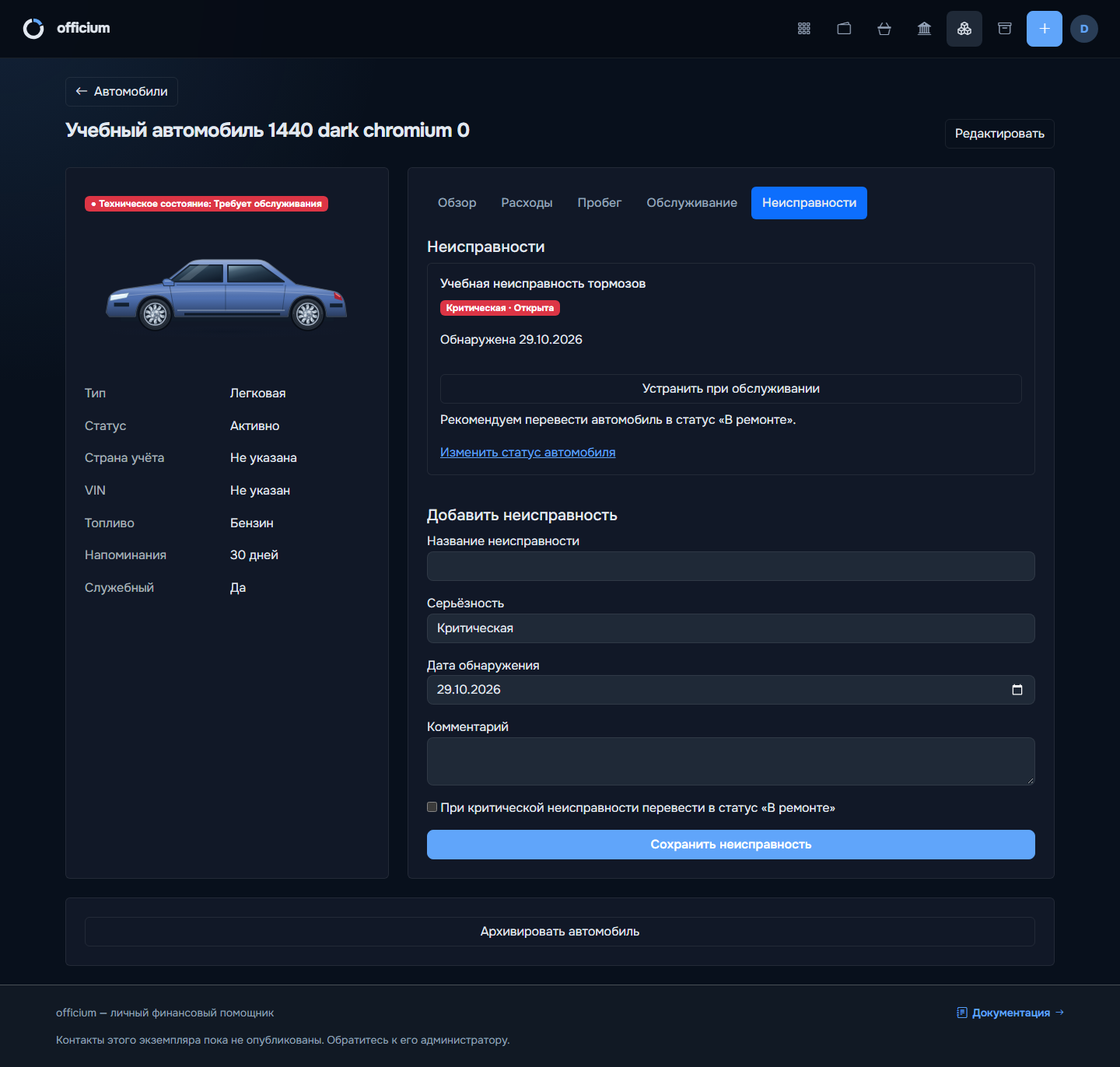
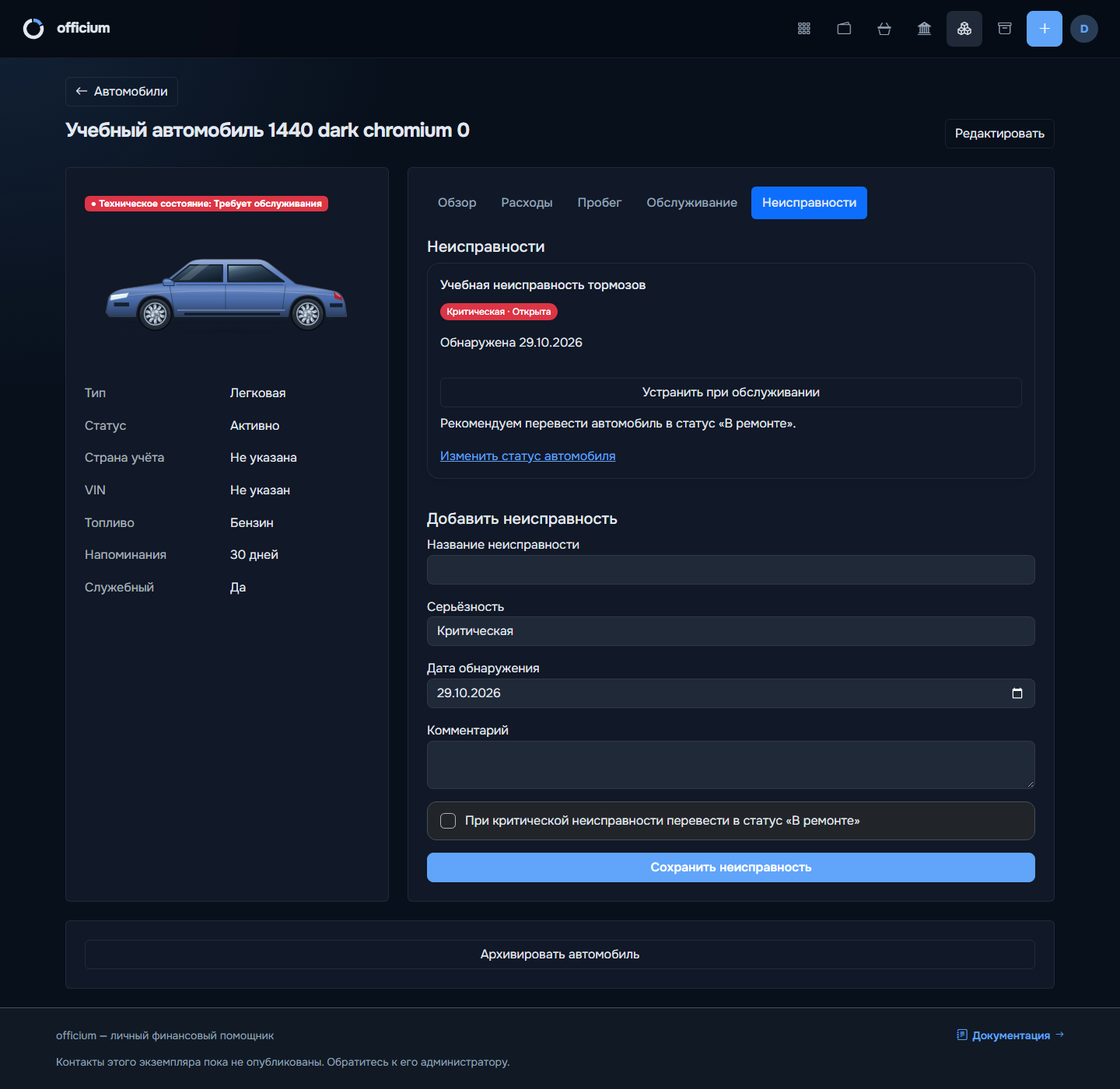
style(vehicles): polish maintenance forms and disclosures

diff --git a/templates/vehicles/_maintenance.html b/templates/vehicles/_maintenance.html
@@ -1,28 +1,28 @@
 <h2 class="h5">Обслуживание</h2>
 <p class="text-muted">Интервалы типовые, сверяйтесь с регламентом производителя.</p>
 {% if not vehicle.archived_at %}<a class="btn btn-primary mb-3" href="{{ url_for('vehicle_record_service',vehicle_id=vehicle.id) }}">Записать обслуживание</a>{% endif %}
-{% for item,state in maintenance_items %}<article class="card p-3 mb-3 text-break">
+{% for item,state in maintenance_items %}<article class="card vehicle-maintenance-card p-3 mb-3 text-break">
 <h3 class="h6">{{ item.name }} {% if not item.is_active %}(отключено){% endif %}</h3>
 <p><span class="badge text-bg-{{ state.color }}">{{ state.label }}</span></p>
 <p>Заменить {% if state.due_km is not none %}на {{ '{:,}'.format(state.due_km).replace(',', ' ') }} км{% endif %}{% if state.due_km is not none and state.due_date %} или {% endif %}{% if state.due_date %}до {{ state.due_date.strftime('%d.%m.%Y') }}{% endif %}{% if state.due_km is none and not state.due_date %}— укажите последнюю замену{% endif %}</p>
 {% if forecasts[item.id] %}<p class="text-muted">По пробегу: {{ forecasts[item.id].strftime('%d.%m.%Y') }} (оценка)</p>{% endif %}
-{% if not vehicle.archived_at %}<details><summary>Настроить позицию</summary><form class="d-grid gap-2 mt-2" method="post" action="{{ url_for('vehicle_maintenance_edit',vehicle_id=vehicle.id,item_id=item.id) }}">
+{% if not vehicle.archived_at %}<details class="vehicle-disclosure"><summary><span>Настроить позицию</span><i class="bi bi-chevron-down" aria-hidden="true"></i></summary><form class="vehicle-maintenance-fields mt-3" method="post" action="{{ url_for('vehicle_maintenance_edit',vehicle_id=vehicle.id,item_id=item.id) }}">
 <input type="hidden" name="csrf_token" value="{{ csrf_token() }}">
 <label>Название<input class="form-control" name="name" value="{{ item.name }}" maxlength="150" required></label>
 {% if vehicle.kind!='trailer' %}<label>Интервал, км<input class="form-control" name="interval_km" type="number" min="1" value="{{ item.interval_km or '' }}"></label>{% endif %}
 <label>Интервал, месяцев<input class="form-control" name="interval_months" type="number" min="1" max="1200" value="{{ item.interval_months or '' }}"></label>
 <label>Последняя замена<input class="form-control" name="last_done_date" type="date" max="{{ today }}" value="{{ item.last_done_date or '' }}"></label>
 {% if vehicle.kind!='trailer' %}<label>Пробег при замене<input class="form-control" name="last_done_km" type="number" min="0" value="{{ item.last_done_km if item.last_done_km is not none else '' }}"></label>{% endif %}
-<label><input type="checkbox" name="is_active" value="1" {% if item.is_active %}checked{% endif %}> Активна</label><input type="hidden" name="is_active" value="0"><button class="btn btn-outline-primary">Сохранить позицию</button></form></details>{% endif %}
+<label class="vehicle-choice"><input type="checkbox" name="is_active" value="1" {% if item.is_active %}checked{% endif %}> Активна</label><input type="hidden" name="is_active" value="0"><button class="btn btn-outline-primary">Сохранить позицию</button></form></details>{% endif %}
 </article>{% else %}<p>Позиций пока нет. Добавьте их из шаблона или задайте свой интервал.</p>{% endfor %}
 {% if not vehicle.archived_at %}
-<details class="mb-3"><summary>Добавить из шаблона</summary><form class="d-grid gap-3 mt-3" method="post" action="{{ url_for('vehicle_maintenance',vehicle_id=vehicle.id) }}">
+<details class="vehicle-disclosure vehicle-disclosure-add mb-3"><summary><span>Добавить из шаблона</span><i class="bi bi-chevron-down" aria-hidden="true"></i></summary><form class="vehicle-maintenance-fields mt-3" method="post" action="{{ url_for('vehicle_maintenance',vehicle_id=vehicle.id) }}">
 <input type="hidden" name="csrf_token" value="{{ csrf_token() }}"><label>Шаблон<select class="form-select" name="template_id" required>{% for template in maintenance_templates %}<option value="{{ template.id }}">{{ template.name }}</option>{% endfor %}</select></label>
 <label>Последняя замена<input class="form-control" name="last_done_date" type="date" max="{{ today }}"></label>
 {% if vehicle.kind!='trailer' %}<label>Пробег при замене<input class="form-control" name="last_done_km" type="number" min="0"></label>{% endif %}<button class="btn btn-outline-primary">Добавить позицию</button></form></details>
-<details><summary>Добавить свою позицию</summary><form class="d-grid gap-3 mt-3" method="post" action="{{ url_for('vehicle_maintenance',vehicle_id=vehicle.id) }}">
+<details class="vehicle-disclosure"><summary><span>Добавить свою позицию</span><i class="bi bi-chevron-down" aria-hidden="true"></i></summary><form class="vehicle-maintenance-fields mt-3" method="post" action="{{ url_for('vehicle_maintenance',vehicle_id=vehicle.id) }}">
 <input type="hidden" name="csrf_token" value="{{ csrf_token() }}"><label>Название<input class="form-control" name="name" maxlength="150" required></label>
 {% if vehicle.kind!='trailer' %}<label>Интервал, км<input class="form-control" type="number" min="1" name="interval_km"></label>{% endif %}<label>Интервал, месяцев<input class="form-control" type="number" min="1" max="1200" name="interval_months"></label><button class="btn btn-outline-primary">Добавить позицию</button></form></details>
 {% endif %}
 <h3 class="h5 mt-4">История обслуживания</h3>
-{% for record in vehicle.service_records|sort(attribute='service_date',reverse=true) %}<article class="border rounded p-3 mb-2 text-break"><strong>{{ record.service_date.strftime('%d.%m.%Y') }}</strong>{% if record.odometer_km is not none %} · {{ record.odometer_km }} км{% endif %}<ul>{% for item in record.items %}<li>{{ item.name }}</li>{% endfor %}</ul><p>{{ record.comment or '' }}</p>{% if record.expense_id %}<a href="{{ url_for('edit_expense',expense_id=record.expense_id) }}">Расход на обслуживание</a>{% elif record.vehicle_cost_id %}<a href="{{ url_for('vehicle_cost_detail',cost_id=record.vehicle_cost_id) }}">Трата организации</a>{% endif %}</article>{% else %}<p class="text-muted">Обслуживаний пока нет.</p>{% endfor %}
+{% for record in vehicle.service_records|sort(attribute='service_date',reverse=true) %}<article class="vehicle-service-entry p-3 mb-2 text-break"><strong>{{ record.service_date.strftime('%d.%m.%Y') }}</strong>{% if record.odometer_km is not none %} · {{ record.odometer_km }} км{% endif %}<ul>{% for item in record.items %}<li>{{ item.name }}</li>{% endfor %}</ul><p>{{ record.comment or '' }}</p>{% if record.expense_id %}<a href="{{ url_for('edit_expense',expense_id=record.expense_id) }}">Расход на обслуживание</a>{% elif record.vehicle_cost_id %}<a href="{{ url_for('vehicle_cost_detail',cost_id=record.vehicle_cost_id) }}">Трата организации</a>{% endif %}</article>{% else %}<p class="text-muted">Обслуживаний пока нет.</p>{% endfor %}

diff --git a/static/css/vehicles.css b/static/css/vehicles.css
@@ -3,6 +3,40 @@
 .vehicle-form-preview{grid-column:1/-1;text-align:center;overflow:hidden;border:1px solid var(--bs-border-color);border-radius:.75rem;background:var(--bs-tertiary-bg)}.vehicle-preview-scene{height:180px;display:grid;place-items:center;overflow:hidden;background-color:#314639;background-image:linear-gradient(180deg,#08111b08,#08111b26),url('../images/vehicles/backgrounds/forest-road.webp');background-size:cover;background-position:center 68%}.vehicle-form-preview .vehicle-visual{position:relative;top:12px;width:88%;max-width:360px;height:180px;max-height:180px;margin-inline:auto;filter:drop-shadow(0 3px 3px #0003)}.vehicle-preview-controls{padding:.75rem;border-top:1px solid var(--bs-border-color)}
 .vehicle-color-picker{max-width:340px;margin-inline:auto}.vehicle-color-toggle{display:inline-flex;align-items:center;gap:.5rem;list-style:none;cursor:pointer}.vehicle-color-toggle::-webkit-details-marker{display:none}.vehicle-color-current{width:1rem;height:1rem;border:1px solid var(--bs-secondary-color);border-radius:50%;background:var(--vehicle-color)}.vehicle-color-panel{margin-top:.75rem;padding:.75rem;border:1px solid var(--bs-border-color);border-radius:.75rem;background:var(--bs-body-bg)}.vehicle-color-swatches{display:grid;grid-template-columns:repeat(6,minmax(0,1fr));gap:.5rem}.vehicle-color-swatch{display:flex;align-items:center;justify-content:center;min-width:0;height:32px;background:var(--swatch-color);border:1px solid var(--bs-secondary-color);border-radius:.5rem;cursor:pointer}.vehicle-color-swatch i{visibility:hidden;color:#fff;filter:drop-shadow(0 1px 1px #000) drop-shadow(0 -1px 1px #000)}.vehicle-color-swatch[aria-pressed="true"]{outline:2px solid var(--bs-primary);outline-offset:2px}.vehicle-color-swatch[aria-pressed="true"] i{visibility:visible}.vehicle-color-swatch:focus-visible,.vehicle-color-toggle:focus-visible{outline:3px solid var(--bs-primary);outline-offset:3px}.vehicle-color-custom{display:flex;flex-wrap:wrap;align-items:center;justify-content:center;gap:.5rem;margin-top:.75rem}.vehicle-color-custom-label{display:flex;align-items:center;gap:.5rem;cursor:pointer}.vehicle-color-custom-label input{width:2.5rem;height:2rem;padding:.2rem}.vehicle-eyedropper{display:inline-flex;gap:.4rem}.vehicle-eyedropper[hidden]{display:none}.vehicle-color-status:empty{display:none}.vehicle-color-status{font-size:.85rem;margin-top:.5rem}
 .vehicle-image-link{display:block;text-decoration:none;cursor:pointer}.vehicle-image-link:focus-visible{outline:2px solid var(--bs-primary);outline-offset:3px}
+.vehicle-disclosure{border:1px solid var(--bs-border-color);border-radius:.9rem;background:var(--bs-body-bg);overflow:hidden}
+.vehicle-disclosure>summary{display:flex;align-items:center;justify-content:space-between;gap:1rem;min-height:48px;padding:.8rem 1rem;list-style:none;cursor:pointer;font-weight:500;overflow-wrap:anywhere}
+.vehicle-disclosure>summary::-webkit-details-marker{display:none}
+.vehicle-disclosure>summary::marker{content:""}
+.vehicle-disclosure>summary>i{flex:none;color:var(--bs-secondary-color);font-size:.85rem;transition:transform .18s ease}
+.vehicle-disclosure[open]>summary{border-bottom:1px solid var(--bs-border-color);background:var(--bs-tertiary-bg)}
+.vehicle-disclosure[open]>summary>i{transform:rotate(180deg)}
+.vehicle-disclosure>summary:hover{background:var(--bs-tertiary-bg)}
+.vehicle-disclosure>summary:focus-visible{outline:3px solid var(--bs-primary);outline-offset:-3px;border-radius:.8rem}
+.vehicle-disclosure>form{padding:0 1rem 1rem}
+.vehicle-disclosure-add{margin-top:.75rem}
+.vehicle-disclosure-add>summary{color:var(--bs-body-color)}
+.vehicle-maintenance-card{border-radius:1rem;box-shadow:0 3px 14px #00000006}
+.vehicle-maintenance-card h3{font-size:1rem;line-height:1.5}
+.vehicle-maintenance-card .badge{font-weight:500;padding:.45em .7em;border-radius:2rem}
+.vehicle-maintenance-fields{display:grid;grid-template-columns:repeat(2,minmax(0,1fr));gap:1rem}
+.vehicle-maintenance-fields>label:first-of-type,.vehicle-maintenance-fields>.vehicle-choice,.vehicle-maintenance-fields>button{grid-column:1/-1}
+.vehicle-maintenance-fields>label,.vehicle-service-form>label{min-width:0;display:grid;gap:.4rem}
+.vehicle-maintenance-fields>.vehicle-choice{display:flex}
+.vehicle-choice{display:flex;align-items:center;gap:.75rem;min-height:48px;padding:.75rem 1rem;border:1px solid var(--bs-border-color);border-radius:.75rem;background:var(--bs-body-bg);cursor:pointer;line-height:1.5}
+.vehicle-choice input[type=checkbox]{appearance:none;-webkit-appearance:none;flex:none;width:1.25rem;height:1.25rem;border:1.5px solid var(--bs-secondary-color);border-radius:.35rem;background:var(--bs-body-bg);cursor:pointer;display:grid;place-content:center}
+.vehicle-choice input[type=checkbox]:checked{background:var(--bs-primary);border-color:var(--bs-primary)}
+.vehicle-choice input[type=checkbox]:checked::after{content:"";width:.35rem;height:.65rem;border:solid white;border-width:0 2px 2px 0;transform:rotate(45deg) translate(-1px,-1px)}
+.vehicle-choice:has(input:checked){border-color:var(--bs-primary);background:var(--bs-primary-bg-subtle)}
+.vehicle-choice input:focus-visible{outline:3px solid var(--bs-primary);outline-offset:3px}
+.vehicle-service-section{padding:1rem;border:0;border-radius:1rem;min-width:0;background:var(--bs-tertiary-bg)}
+.vehicle-service-section legend{float:left;width:100%;padding:0;margin-bottom:.75rem;font-size:1rem;font-weight:500}
+.vehicle-service-section legend+*{clear:both}
+.vehicle-service-section p:last-child{margin-bottom:0}
+.vehicle-service-entry{border-left:3px solid var(--bs-border-color);background:var(--bs-tertiary-bg);border-radius:0 .75rem .75rem 0}
+.vehicle-service-entry ul{padding-left:1.2rem;margin-top:.75rem}
+.vehicle-template-interval{display:block;color:var(--bs-secondary-color);font-size:.85rem;font-weight:400;margin-top:.25rem}
+@media(max-width:575px){.vehicle-maintenance-fields{grid-template-columns:minmax(0,1fr)}.vehicle-service-section{padding:.75rem}.vehicle-disclosure>summary{padding:.75rem}.vehicle-disclosure>form{padding:0 .75rem .75rem}}
+@media(prefers-reduced-motion:reduce){.vehicle-disclosure>summary>i{transition:none}}
 .vehicle-form-wide{grid-column:1/-1}
 .vehicle-auxiliary-fields>.vehicle-field-heading{margin-bottom:0}.vehicle-auxiliary-fields>[data-trailer],.vehicle-auxiliary-fields>[data-tractor]{padding-top:1.25rem}.vehicle-revealing{overflow:hidden}
 .vehicle-field{min-width:0}.vehicle-field-heading{display:flex;align-items:center;gap:.35rem;margin-bottom:.25rem}.vehicle-field-heading>label{margin:0}.vehicle-field-heading>.info-hint{flex:0 0 auto;margin-left:0}

diff --git a/templates/vehicles/consumable_templates.html b/templates/vehicles/consumable_templates.html
@@ -2,9 +2,9 @@
 {% macro fields(row=none) %}
 <input type="hidden" name="csrf_token" value="{{ csrf_token() }}">
 <label>Набор<select class="form-select" name="template_set">{% for key,label in [('passenger','Легковой'),('truck','Грузовой')] %}<option value="{{ key }}" {% if row and row.template_set==key %}selected{% endif %}>{{ label }}</option>{% endfor %}</select></label>
-<label>Название<input class="form-control" name="name" maxlength="150" value="{{ row.name if row else '' }}" required></label><label>Интервал, км<input class="form-control" type="number" min="1" name="interval_km" value="{{ row.interval_km or '' if row else '' }}"></label><label>Интервал, месяцев<input class="form-control" type="number" min="1" max="1200" name="interval_months" value="{{ row.interval_months or '' if row else '' }}"></label><label>Порядок<input class="form-control" type="number" min="0" max="100000" name="sort_order" value="{{ row.sort_order if row else 0 }}" required></label><label><input type="checkbox" name="applies_to_electric" {% if not row or row.applies_to_electric %}checked{% endif %}> Применим к электромобилям</label><label><input type="checkbox" name="is_active" {% if not row or row.is_active %}checked{% endif %}> Активен</label><button class="btn btn-outline-primary">Сохранить шаблон</button>
+<label>Название<input class="form-control" name="name" maxlength="150" value="{{ row.name if row else '' }}" required></label><label>Интервал, км<input class="form-control" type="number" min="1" name="interval_km" value="{{ row.interval_km or '' if row else '' }}"></label><label>Интервал, месяцев<input class="form-control" type="number" min="1" max="1200" name="interval_months" value="{{ row.interval_months or '' if row else '' }}"></label><label>Порядок<input class="form-control" type="number" min="0" max="100000" name="sort_order" value="{{ row.sort_order if row else 0 }}" required></label><label class="vehicle-choice"><input type="checkbox" name="applies_to_electric" {% if not row or row.applies_to_electric %}checked{% endif %}> Применим к электромобилям</label><label class="vehicle-choice"><input type="checkbox" name="is_active" {% if not row or row.is_active %}checked{% endif %}> Активен</label><button class="btn btn-outline-primary">Сохранить шаблон</button>
 {% endmacro %}
 {% block title %}Шаблоны расходников{% endblock %}
-{% block content %}<a href="{{ url_for('admin_dictionaries') }}">← Справочники</a><h1 class="page-title my-4">Шаблоны расходников</h1><p>Интервалы типовые, сверяйтесь с регламентом производителя.</p><p>Изменение шаблона не меняет ранее добавленные позиции автомобилей.</p>
-{% for key,label in [('passenger','Легковой набор'),('truck','Грузовой набор')] %}<h2 class="h4 mt-4">{{ label }}</h2>{% for row in templates if row.template_set==key %}<details class="card p-3 mb-2"><summary>{{ row.name }} · {{ row.interval_km or '—' }} км / {{ row.interval_months or '—' }} мес. {% if not row.is_active %}(отключён){% endif %}</summary><form class="d-grid gap-3 mt-3" method="post" action="{{ url_for('admin_consumable_template_edit',template_id=row.id) }}">{{ fields(row) }}</form></details>{% endfor %}{% endfor %}
-<details class="card p-3 mt-4"><summary>Добавить шаблон</summary><form class="d-grid gap-3 mt-3" method="post">{{ fields() }}</form></details>{% endblock %}
+{% block content %}<link rel="stylesheet" href="{{ url_for('static', filename='css/vehicles.css', v='maintenance-2') }}"><a class="btn btn-outline-secondary vehicle-button text-decoration-none" href="{{ url_for('admin_dictionaries') }}"><i class="bi bi-arrow-left" aria-hidden="true"></i> Справочники</a><h1 class="page-title my-4">Шаблоны расходников</h1><p>Интервалы типовые, сверяйтесь с регламентом производителя.</p><p>Изменение шаблона не меняет ранее добавленные позиции автомобилей.</p>
+{% for key,label in [('passenger','Легковой набор'),('truck','Грузовой набор')] %}<h2 class="h4 mt-4">{{ label }}</h2>{% for row in templates if row.template_set==key %}<details class="vehicle-disclosure vehicle-template mb-2"><summary><span>{{ row.name }} <small class="vehicle-template-interval">{% if row.interval_km %}{{ '{:,}'.format(row.interval_km).replace(',', ' ') }} км{% endif %}{% if row.interval_km and row.interval_months %} · {% endif %}{% if row.interval_months %}{{ row.interval_months }} мес.{% endif %}</small> {% if not row.is_active %}(отключён){% endif %}</span><i class="bi bi-chevron-down" aria-hidden="true"></i></summary><form class="vehicle-maintenance-fields mt-3" method="post" action="{{ url_for('admin_consumable_template_edit',template_id=row.id) }}">{{ fields(row) }}</form></details>{% endfor %}{% endfor %}
+<details class="vehicle-disclosure vehicle-disclosure-add mt-4"><summary><span>Добавить шаблон</span><i class="bi bi-chevron-down" aria-hidden="true"></i></summary><form class="vehicle-maintenance-fields mt-3" method="post">{{ fields() }}</form></details>{% endblock %}

diff --git a/templates/vehicles/service_form.html b/templates/vehicles/service_form.html
@@ -1,11 +1,11 @@
 {% extends 'base.html' %}
 {% block title %}Записать обслуживание{% endblock %}
-{% block content %}<a href="{{ url_for('vehicle_detail',vehicle_id=vehicle.id,tab='maintenance') }}">← Обслуживание</a><h1 class="page-title my-4">Записать обслуживание</h1><p>{{ vehicle.name }}</p>
+{% block content %}<link rel="stylesheet" href="{{ url_for('static', filename='css/vehicles.css', v='maintenance-2') }}"><a class="btn btn-outline-secondary vehicle-button text-decoration-none" href="{{ url_for('vehicle_detail',vehicle_id=vehicle.id,tab='maintenance') }}"><i class="bi bi-arrow-left" aria-hidden="true"></i> Обслуживание</a><h1 class="page-title my-4">Записать обслуживание</h1><p>{{ vehicle.name }}</p>
 {% if vehicle.archived_at %}<div class="alert alert-secondary">Автомобиль в архиве. Только просмотр.</div>{% else %}
-<form method="post" class="card p-3 p-md-4 d-grid gap-3 mx-auto" style="max-width:48rem"><input type="hidden" name="csrf_token" value="{{ csrf_token() }}">
+<form method="post" class="card vehicle-service-form p-3 p-md-4 d-grid gap-3 mx-auto" style="max-width:48rem"><input type="hidden" name="csrf_token" value="{{ csrf_token() }}">
 <label>Дата обслуживания<input class="form-control" type="date" name="service_date" value="{{ form.get('service_date',today.isoformat()) }}" max="{{ today }}" required></label>
 {% if vehicle.kind!='trailer' %}<label>Пробег, км<input class="form-control" type="number" min="0" max="2147483647" name="odometer_km" value="{{ form.get('odometer_km',mileage if mileage is not none else '') }}" required></label>{% endif %}
-<fieldset><legend class="h5">Заменённые позиции</legend>{% for item,state in maintenance_items if item.is_active %}<label class="d-block mb-2"><input type="checkbox" name="item_ids" value="{{ item.id }}" {% if item.id|string in form.getlist('item_ids') %}checked{% endif %}> {{ item.name }}</label>{% else %}<p class="text-muted">Сначала добавьте позиции во вкладке «Обслуживание».</p>{% endfor %}</fieldset>
-<fieldset><legend class="h5">Устранённые неисправности</legend>{% for defect in vehicle.defects if defect.status=='open' %}<label class="d-block mb-2"><input type="checkbox" name="defect_ids" value="{{ defect.id }}" {% if defect.id|string in form.getlist('defect_ids') %}checked{% endif %}> {{ defect.title }}</label>{% else %}<p class="text-muted">Открытых неисправностей нет.</p>{% endfor %}</fieldset>
+<fieldset class="vehicle-service-section"><legend class="h5">Заменённые позиции</legend>{% for item,state in maintenance_items if item.is_active %}<label class="vehicle-choice mb-2"><input type="checkbox" name="item_ids" value="{{ item.id }}" {% if item.id|string in form.getlist('item_ids') %}checked{% endif %}> {{ item.name }}</label>{% else %}<p class="text-muted">Сначала добавьте позиции во вкладке «Обслуживание».</p>{% endfor %}</fieldset>
+<fieldset class="vehicle-service-section"><legend class="h5">Устранённые неисправности</legend>{% for defect in vehicle.defects if defect.status=='open' %}<label class="vehicle-choice mb-2"><input type="checkbox" name="defect_ids" value="{{ defect.id }}" {% if defect.id|string in form.getlist('defect_ids') %}checked{% endif %}> {{ defect.title }}</label>{% else %}<p class="text-muted">Открытых неисправностей нет.</p>{% endfor %}</fieldset>
 <label>Сумма (необязательно)<input class="form-control" name="amount" inputmode="decimal" value="{{ form.get('amount','') }}"></label>
 <label>Кто платит<select class="form-select" name="payer"><option value="self" {% if form.get('payer',vehicle.default_payer)=='self' %}selected{% endif %}>Свои средства</option>{% if vehicle.is_company %}<option value="organization" {% if form.get('payer',vehicle.default_payer)=='organization' %}selected{% endif %}>Организация</option>{% endif %}</select></label><label>Комментарий<textarea class="form-control" name="comment" maxlength="2000">{{ form.get('comment','') }}</textarea></label><button class="btn btn-primary">Сохранить обслуживание</button></form>{% endif %}{% endblock %}

diff --git a/templates/vehicles/_defects.html b/templates/vehicles/_defects.html
@@ -1,4 +1,4 @@
 <h2 class="h5">Неисправности</h2>
-{% for defect in vehicle.defects|sort(attribute='found_date',reverse=true) %}<article class="card p-3 mb-3 text-break"><h3 class="h6">{{ defect.title }}</h3><p><span class="badge text-bg-{{ 'success' if defect.status=='fixed' else {'critical':'danger','attention':'warning','minor':'secondary'}[defect.severity] }}">{{ defect_severities[defect.severity] }} · {{ 'Устранена' if defect.status=='fixed' else 'Открыта' }}</span></p><p>Обнаружена {{ defect.found_date.strftime('%d.%m.%Y') }}{% if defect.fixed_date %} · Устранена {{ defect.fixed_date.strftime('%d.%m.%Y') }}{% endif %}</p><p>{{ defect.comment or '' }}</p>
+{% for defect in vehicle.defects|sort(attribute='found_date',reverse=true) %}<article class="card vehicle-maintenance-card p-3 mb-3 text-break"><h3 class="h6">{{ defect.title }}</h3><p><span class="badge text-bg-{{ 'success' if defect.status=='fixed' else {'critical':'danger','attention':'warning','minor':'secondary'}[defect.severity] }}">{{ defect_severities[defect.severity] }} · {{ 'Устранена' if defect.status=='fixed' else 'Открыта' }}</span></p><p>Обнаружена {{ defect.found_date.strftime('%d.%m.%Y') }}{% if defect.fixed_date %} · Устранена {{ defect.fixed_date.strftime('%d.%m.%Y') }}{% endif %}</p><p>{{ defect.comment or '' }}</p>
 {% if defect.status=='open' and not vehicle.archived_at %}<a class="btn btn-outline-primary" href="{{ url_for('vehicle_record_service',vehicle_id=vehicle.id) }}">Устранить при обслуживании</a>{% if defect.severity=='critical' and vehicle.status!='in_repair' %}<p class="mt-2">Рекомендуем перевести автомобиль в статус «В ремонте».</p><a href="{{ url_for('edit_vehicle',vehicle_id=vehicle.id) }}">Изменить статус автомобиля</a>{% endif %}{% endif %}</article>{% else %}<p>Неисправностей пока нет.</p>{% endfor %}
-{% if not vehicle.archived_at %}<h3 class="h5 mt-4">Добавить неисправность</h3><form class="d-grid gap-3" method="post" action="{{ url_for('vehicle_defect',vehicle_id=vehicle.id) }}"><input type="hidden" name="csrf_token" value="{{ csrf_token() }}"><label>Название неисправности<input class="form-control" name="title" required maxlength="150"></label><label>Серьёзность<select class="form-select" name="severity">{% for key,label in defect_severities.items() %}<option value="{{ key }}">{{ label }}</option>{% endfor %}</select></label><label>Дата обнаружения<input class="form-control" type="date" name="found_date" value="{{ today }}" max="{{ today }}" required></label><label>Комментарий<textarea class="form-control" name="comment" maxlength="2000"></textarea></label><label><input type="checkbox" name="set_in_repair"> При критической неисправности перевести в статус «В ремонте»</label><button class="btn btn-primary">Сохранить неисправность</button></form>{% endif %}
+{% if not vehicle.archived_at %}<h3 class="h5 mt-4">Добавить неисправность</h3><form class="d-grid gap-3" method="post" action="{{ url_for('vehicle_defect',vehicle_id=vehicle.id) }}"><input type="hidden" name="csrf_token" value="{{ csrf_token() }}"><label>Название неисправности<input class="form-control" name="title" required maxlength="150"></label><label>Серьёзность<select class="form-select" name="severity">{% for key,label in defect_severities.items() %}<option value="{{ key }}">{{ label }}</option>{% endfor %}</select></label><label>Дата обнаружения<input class="form-control" type="date" name="found_date" value="{{ today }}" max="{{ today }}" required></label><label>Комментарий<textarea class="form-control" name="comment" maxlength="2000"></textarea></label><label class="vehicle-choice"><input type="checkbox" name="set_in_repair"> При критической неисправности перевести в статус «В ремонте»</label><button class="btn btn-primary">Сохранить неисправность</button></form>{% endif %}

diff --git a/templates/vehicles/detail.html b/templates/vehicles/detail.html
@@ -2,7 +2,7 @@
 {% from 'vehicles/_visual.html' import visual with context %}
 {% block title %}{{ vehicle.name }} — Автомобили{% endblock %}
 {% block content %}
-<link rel="stylesheet" href="{{ url_for('static', filename='css/vehicles.css', v='motion-1') }}">
+<link rel="stylesheet" href="{{ url_for('static', filename='css/vehicles.css', v='maintenance-2') }}">
 <a class="text-decoration-none btn btn-outline-secondary vehicle-button" href="{{ url_for('vehicles') }}"><i class="bi bi-arrow-left" aria-hidden="true"></i><span>Автомобили</span></a>
 <div class="d-flex flex-wrap justify-content-between gap-3 mt-3"><h1 class="page-title">{{ vehicle.name }}</h1>{% if not vehicle.archived_at %}<a class="text-decoration-none btn btn-outline-primary align-self-start" href="{{ url_for('edit_vehicle',vehicle_id=vehicle.id) }}">Редактировать</a>{% endif %}</div>
 {% if vehicle.archived_at %}<div class="alert alert-secondary mt-3">Автомобиль в архиве · {{ archive_reasons[vehicle.archive_reason] }}. Только просмотр.<p class="mb-0">{{ vehicle.archive_note or '' }}</p></div>{% endif %}

diff --git a/CHANGELOG.md b/CHANGELOG.md
@@ -16,6 +16,7 @@
 - Единая запись обслуживания с пробегом, личной тратой или тратой организации и закрытием неисправностей; журнал неисправностей, значки технического состояния и фильтр «Требует внимания».
 - Оценка даты замены по истории пробега, настройка позиций и просмотр истории обслуживания архивных автомобилей.
 - Русские подписи событий обслуживания, неисправностей, шаблонов и трат организации в административном журнале; для прицепов в подборе доступны только месячные шаблоны.
+- Обновлён вид форм обслуживания и неисправностей: раскрывающиеся карточки, удобный выбор работ и адаптивное расположение полей; шаблоны показывают только заданные интервалы.
 
 - В CSV-отчёт по автомобилям добавлена строка «Итого» в колонке суммы, с учётом периода и выбранных фильтров.
 

diff --git a/docs/qa/vehicles-stage3/README.md b/docs/qa/vehicles-stage3/README.md
@@ -55,3 +55,8 @@ SQLite-базе. Все автомобили, неисправности и тр
 - Оценка даты по пробегу доступна при положительном приросте между замерами,
   разделёнными минимум 30 днями. Точка расширения документов —
   `vehicle_maintenance_service.document_condition`.
+
+## Обновление оформления
+
+Раскрывающиеся блоки заменены оформленными карточками; выбор работ получил крупные области нажатия и выделение. Поля настроек адаптируются к ширине экрана. Повторный Chromium-прогон: 4 сценария (1440/390, светлая/тёмная тема) пройдены; снимки обновлены.
+
